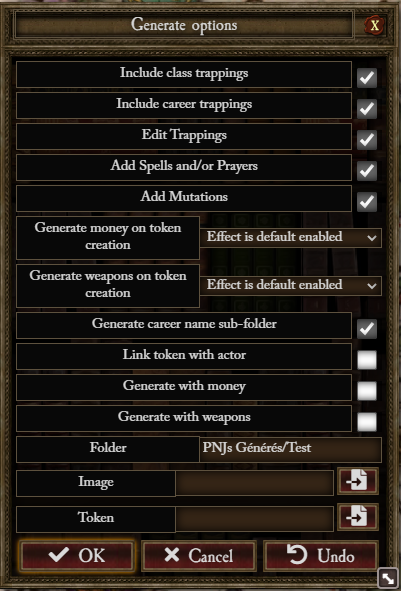
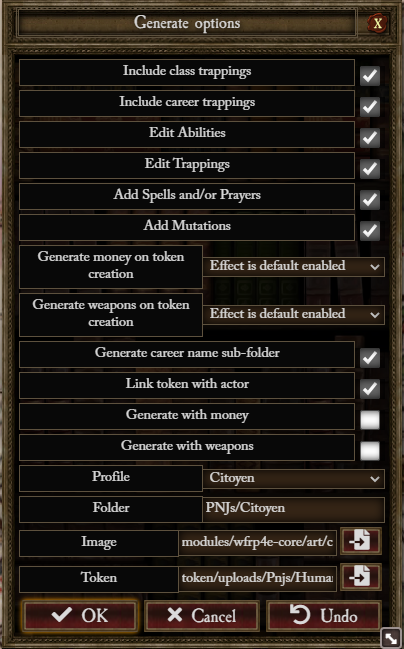
chore: update doc and version

diff --git a/USAGE-NPC.md b/USAGE-NPC.md
@@ -4,7 +4,7 @@
 
 ![Actor Sidebar button](media/wfrp4e-npc-gen-sidebar-button.png)
 
-### 1 you choose a species
+### 1 you choose a species and optional subspecies and Birth Place
 
 ![Species Chooser](./media/wfrp4e-species-chooser.png)
 
@@ -30,6 +30,7 @@
 
 - Include class trappings : check it if you want to include class trapping on generated NPC
 - Include career trappings : check it if you want to include career trapping (if founded) on generated NPC
+- Edit Abilities : check it if you want to add/remove skills/talents/traits before generation
 - Edit Trappings : check it if you want to add/remove trappings before generation
 - Add Spells and/or Prayers : check it if you want to add/remove spells and or prayers before generation
 - Add Mutations : check it if you want to add/remove mutations before generation
@@ -50,15 +51,20 @@
   - Image : The path for the generated NPC image
   - Token : The path for the generated NPC token image (random is set to true if a wildcard is present)
 
-### 7 (optional) you add/remove trappings
+### 7 (optional) you add/remove skills/talents/traits
+
+![Abilities Chooser](./media/wfrp4e-abilities-chooser.png)
+![Abilities Chooser](./media/wfrp4e-abilities-chooser2.png)
+
+### 8 (optional) you add/remove trappings
 
 ![Trappings Chooser](./media/wfrp4e-trappings-chooser.png)
 
-### 8 (optional) you add/remove spells and/or prayers
+### 9 (optional) you add/remove spells and/or prayers
 
 ![Magics Chooser](./media/wfrp4e-magics-chooser.png)
 
-### 9 (optional) you add/remove mutations
+### 10 (optional) you add/remove mutations
 
 ![Mutations Chooser](./media/wfrp4e-mutations-chooser.png)
 

diff --git a/README.md b/README.md
@@ -64,7 +64,7 @@ Estimation :
   - If more than one career are selected during the career chooser step :
     - The career path is your selections of careers in the same order
 - All careers are completed and the last career of the career path is the current
-- Actor have all his career skills, species skills, native tongue skill and basic skills
+- Actor have all his career skills, species skills, native tongue skill, basic skills and Lore(Birth Place) if choosing
   - All career skills have 5 x career level advance
   - Majors species skill have 5 advance if not present in career
   - Minors species skill have 3 advance if not present in career
@@ -82,6 +82,8 @@ Estimation :
 - If active, actor can be linked to his token
 - If active, actor can be generated with random money
 - If active, actor can be generated with random weapons
+- If active, skills/talents/traits can be edited just before generation
+  - Advance and groups can be edited in this step
 - If active, Trappings can be edited just before generation
 - If active, Spells, Prayers and mutations can be added just before generation
 

diff --git a/CHANGELOG.md b/CHANGELOG.md
@@ -1,9 +1,13 @@
 ## In development
 
-- Add a select folder button
-- Add city born to first step
 - create a chat command
 - Manage other language
+
+## 1.6.1
+
+### New features
+
+- Deutsch support for 1.5.0
 
 ## 1.6.0
 
@@ -13,12 +17,7 @@
 - Select a subspecies on species choosing step (wfrp-core 3.6.0 +)
 - Use cache skills and Talents when find for npc generator
 - Add optional Step to edit specialisations after generation
-
-## 1.5.2
-
-### New features
-
-- Deutsch support for 1.5.0
+- Add city born to first step
 
 ## 1.5.1
 

diff --git a/USAGE-SETTINGS.md b/USAGE-SETTINGS.md
@@ -1,6 +1,7 @@
 # Settings
 
 ![Settings](media/wfrp4e-npc-gen-settings.png)
+![Settings](media/wfrp4e-npc-gen-settings4.png)
 ![Settings](media/wfrp4e-npc-gen-settings2.png)
 ![Settings](media/wfrp4e-npc-gen-settings3.png)
 
